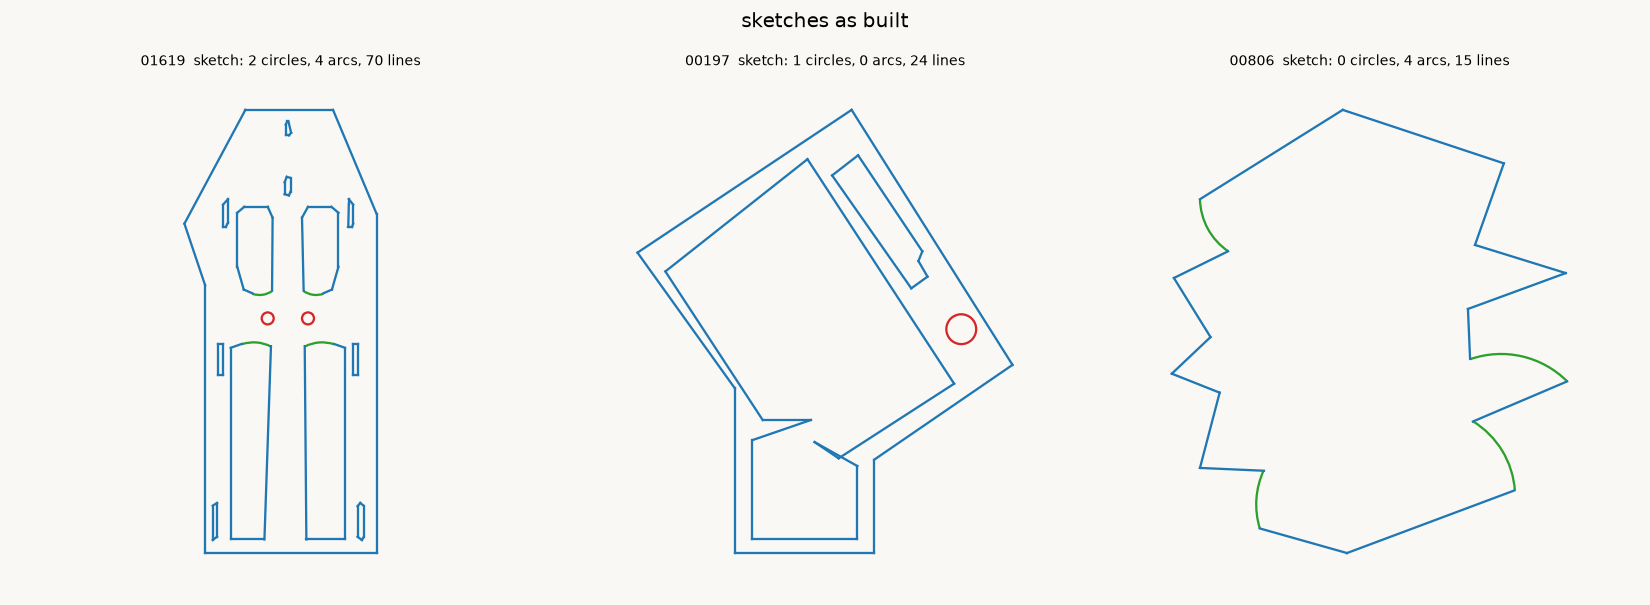
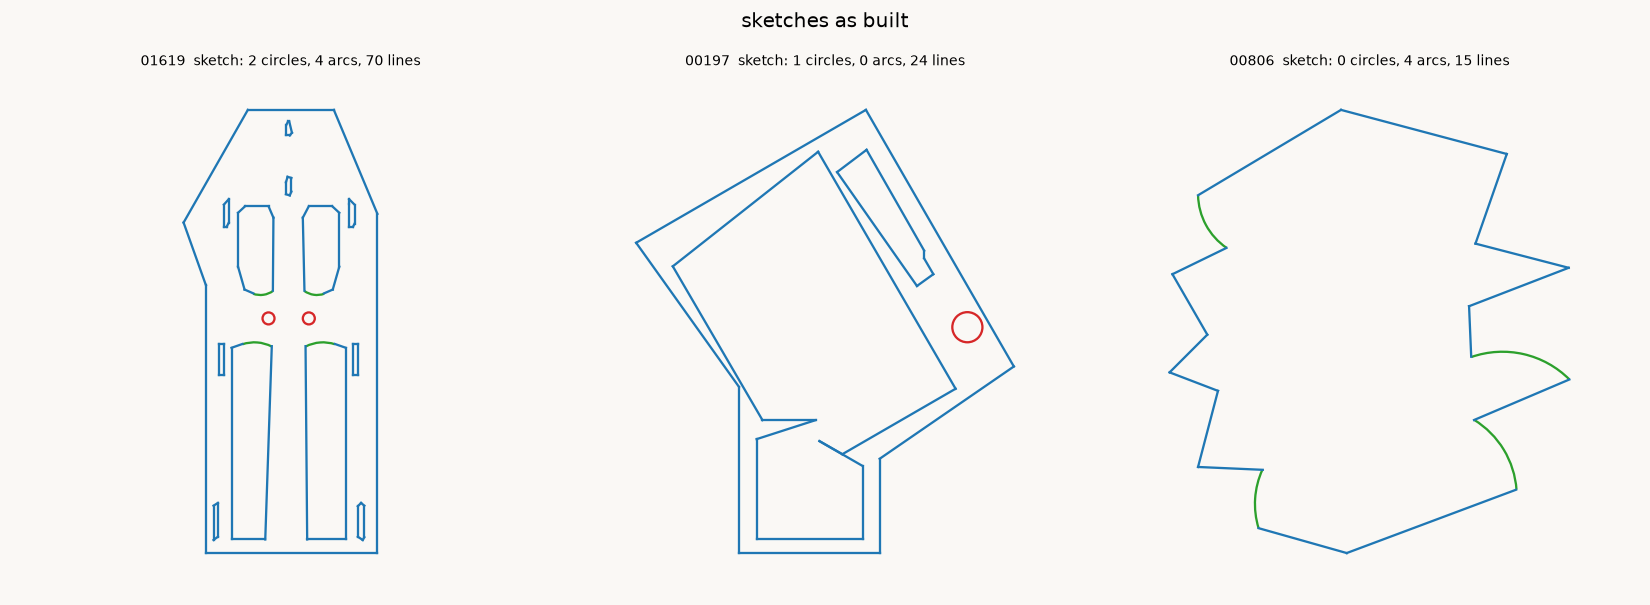
Snap lines to popular angles; rotational symmetry needs a rectified view
snap_rectilinear only ever knew 0 and 90 degrees, so an edge at 44 degrees stayed at 44.
snap_angles now pulls a segment onto the nearest multiple of 15 when it is within 4
degrees, rotating it about its midpoint and leaving the axis-aligned cases to the
existing pass. A 15 degree grid with a 7 degree tolerance was the first attempt and it
quantised essentially every angle, which is not snapping, so the tolerance is 4.

Rotational symmetry is not shipped, because it does not work on these photographs. Part
00806 is a twelve tooth gear; rotating its mask by 30 degrees scores 0.81 against
itself, but 11 teeth scores 0.80 and 13 scores 0.81, so there is no peak to find. The
projection of an oblique photograph destroys the symmetry before we ever see it, which
is the same wall the tilt work hit: 89% of that warp is not visible in a single frame.
An FFT over the radial profile was tried first and was worse - it ranked a flat plate
above the gear.

Rotational symmetry is worth having, and it needs the board and a rectified view first.

diff --git a/src/photo2fcstd/trace.py b/src/photo2fcstd/trace.py
@@ -283,6 +283,31 @@ def unify_radii(els, tol):
     return els
 
 
+def snap_angles(pts, tol_deg=4.0, step=15.0, lock=None):
+    pts = np.asarray(pts, float).copy()
+    n = len(pts)
+    lock = lock or [False] * n
+    for _ in range(3):
+        for i in range(n):
+            j = (i + 1) % n
+            if lock[i] or lock[j]:
+                continue
+            a, b = pts[i], pts[j]
+            d = b - a
+            length = float(np.hypot(*d))
+            if length < 1e-6:
+                continue
+            ang = np.degrees(np.arctan2(d[1], d[0]))
+            target = round(ang / step) * step
+            if abs(target % 90) < 1e-6 or abs(ang - target) > tol_deg:
+                continue
+            mid = (a + b) / 2
+            t = np.radians(target)
+            half = 0.5 * length * np.array([np.cos(t), np.sin(t)])
+            pts[i], pts[j] = mid - half, mid + half
+    return pts
+
+
 def snap_rectilinear(pts, tol_deg=12.0, lock=None):
     pts = np.asarray(pts, float).copy()
     n = len(pts)
@@ -602,7 +627,7 @@ def regularise_lines(els, length_px):
     keep = list(range(len(els)))
     if all(e["type"] == "line" for e in els):
         pts = merge_collinear(snap_rectilinear(pts), 0.015 * length_px)
-        pts = snap_rectilinear(pts)
+        pts = snap_rectilinear(snap_angles(snap_rectilinear(pts)))
         return [{"type": "line", "p0": pts[i].tolist(), "p1": pts[(i + 1) % len(pts)].tolist()} for i in range(len(pts))]
     pts = snap_rectilinear(pts, lock=lock)
     for i, e in enumerate(els):
@@ -613,7 +638,7 @@ def regularise_lines(els, length_px):
     els = merge_line_elements(els, 0.015 * length_px)
     pts = np.array([e["p0"] for e in els], float)
     lock = [els[i]["type"] == "arc" or els[i - 1]["type"] == "arc" for i in range(len(els))]
-    pts = snap_rectilinear(pts, lock=lock)
+    pts = snap_rectilinear(snap_angles(pts, lock=lock), lock=lock)
     for i, e in enumerate(els):
         if e["type"] == "arc":
             pts[i], pts[(i + 1) % len(els)] = e["p0"], e["p1"]

diff --git a/tests/test_trace.py b/tests/test_trace.py
@@ -207,3 +207,36 @@ def test_reflecting_is_exact_for_odd_and_even_widths():
         out, axes = symmetrize(mask)
         assert "x" in axes
         assert (out == np.flip(out, axis=1)).all()
+
+
+def test_a_near_45_degree_edge_snaps_to_exactly_45():
+    from photo2fcstd.trace import snap_angles
+    pts = np.array([[0.0, 0.0], [100.0, 96.0], [0.0, 120.0]])
+    out = snap_angles(pts)
+    d = out[1] - out[0]
+    assert abs(np.degrees(np.arctan2(d[1], d[0])) - 45.0) < 0.01
+
+
+def test_a_near_30_degree_edge_snaps_to_exactly_30():
+    from photo2fcstd.trace import snap_angles
+    pts = np.array([[0.0, 0.0], [100.0, 60.0], [0.0, 90.0]])
+    out = snap_angles(pts)
+    d = out[1] - out[0]
+    assert abs(np.degrees(np.arctan2(d[1], d[0])) - 30.0) < 0.01
+
+
+def test_a_deliberate_odd_angle_is_left_alone():
+    from photo2fcstd.trace import snap_angles
+    angle = lambda p, q: np.degrees(np.arctan2(q[1] - p[1], q[0] - p[0]))
+    pts = np.array([[0.0, 0.0], [100.0, 40.4], [0.0, 80.0]])
+    before = angle(pts[0], pts[1])
+    out = snap_angles(pts)
+    assert abs(angle(out[0], out[1]) - before) < 0.01
+
+
+def test_angle_snapping_leaves_horizontal_and_vertical_to_the_rectilinear_pass():
+    from photo2fcstd.trace import snap_angles
+    angle = lambda p, q: np.degrees(np.arctan2(q[1] - p[1], q[0] - p[0]))
+    pts = np.array([[0.0, 0.0], [100.0, 3.0], [38.0, 80.0]])
+    out = snap_angles(pts)
+    assert np.allclose(out, pts)
